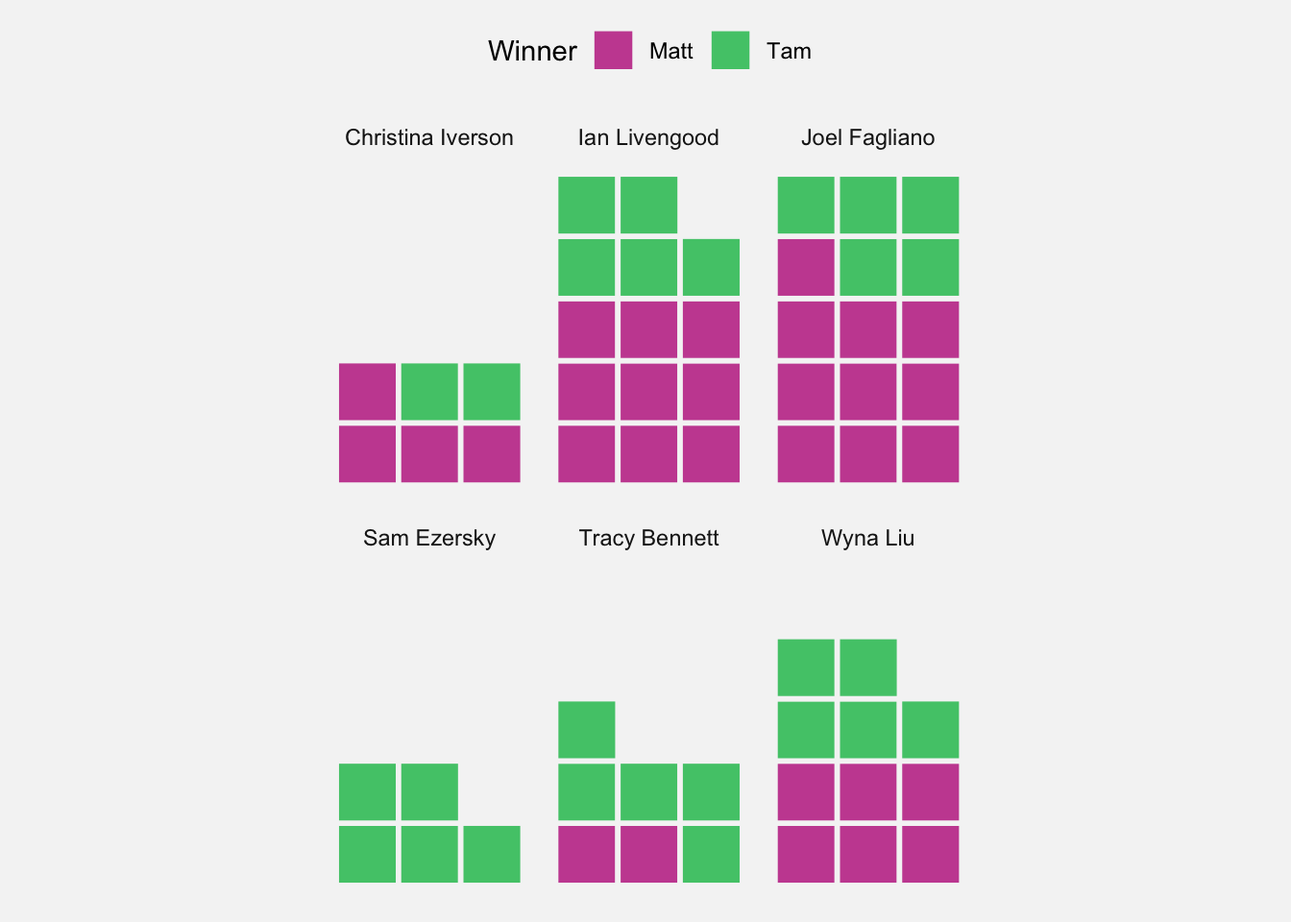
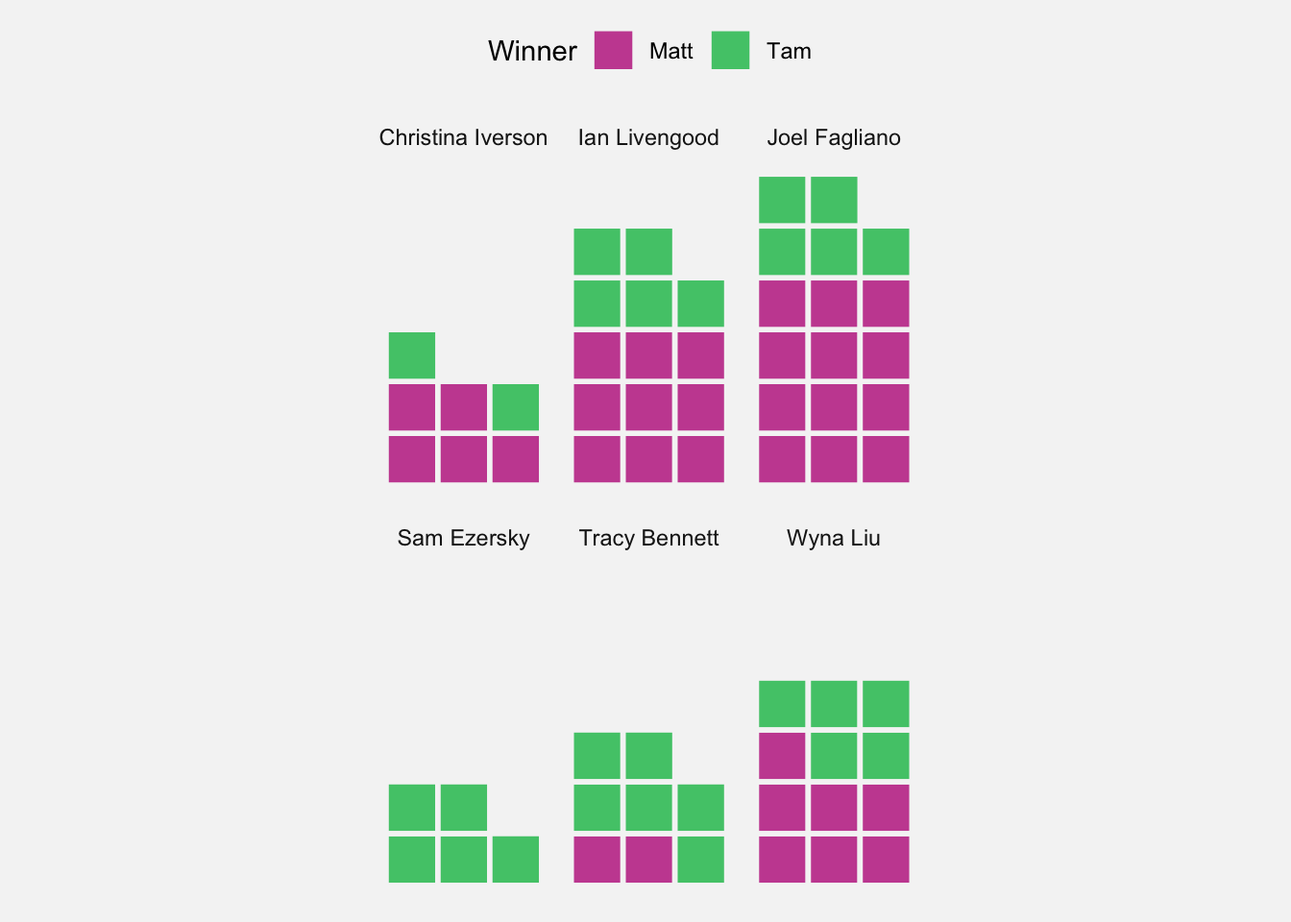
Fix bug for multiple games 1 second apart

diff --git a/mini.html b/mini.html
@@ -75,7 +75,7 @@ ul.task-list li input[type="checkbox"] {
 <p>S</p>
 </div>
 </div>
-<p>After 59 Minis, <strong><span class="matt">Matt</span></strong> is leading 31 to 27 (with 1 draw).</p>
+<p>After 64 Minis, <strong><span class="matt">Matt</span></strong> is leading 35 to 28 (with 1 draw).</p>
 <div class="cell">
 <div class="cell-output-display">
 <div>
@@ -106,12 +106,12 @@ ul.task-list li input[type="checkbox"] {
 </div>
 <p><span class="matt">Matt</span> holds the record for the fastest Mini, completing it in <strong>0:18</strong> on 4 February 2025.</p>
 <p><span class="matt">Matt</span> also played the slowest game: a sluggish <strong>5:46</strong> on 1 February 2025.</p>
-<p>Other than the draw, our closest game was won by <strong><span class="tam">Tam</span></strong> by a mere 1 second.</p>
+<p>Other than the draw, we’ve played 2 Minis that were a mere 1 second apart.</p>
 <p>This chart compares our completion times for each Mini. Click/hover on the points to see the details of each game.</p>
 <div class="cell">
 <div class="cell-output-display">
-<div class="plotly html-widget html-fill-item" id="htmlwidget-c01a14690b413e95d206" style="width:100%;height:464px;"></div>
-<script type="application/json" data-for="htmlwidget-c01a14690b413e95d206">{"x":{"data":[{"x":[20199,20199,null,20080,20080,null,20081,20081,null,20083,20083,null,20085,20085,null,20086,20086,null,20089,20089,null,20090,20090,null,20091,20091,null,20092,20092,null,20093,20093,null,20095,20095,null,20098,20098,null,20099,20099,null,20100,20100,null,20101,20101,null,20105,20105,null,20108,20108,null,20109,20109,null,20110,20110,null,20112,20112,null,20113,20113,null,20114,20114,null,20115,20115,null,20116,20116,null,20118,20118,null,20119,20119,null,20120,20120,null,20122,20122,null,20123,20123,null,20124,20124,null,20125,20125,null,20126,20126,null,20128,20128,null,20130,20130,null,20131,20131,null,20135,20135,null,20137,20137,null,20138,20138,null,20139,20139,null,20141,20141,null,20142,20142,null,20143,20143,null,20144,20144,null,20145,20145,null,20146,20146,null,20147,20147,null,20149,20149,null,20150,20150,null,20159,20159,null,20163,20163,null,20164,20164,null,20180,20180,null,20185,20185,null,20187,20187,null,20189,20189,null,20193,20193,null,20194,20194,null,20195,20195],"y":[70,41,null,142,72,null,48,39,null,80,234,null,229,137,null,65,162,null,154,34,null,56,32,null,99,72,null,117,93,null,49,49,null,92,155,null,86,57,null,104,124,null,61,141,null,51,146,null,51,45,null,106,86,null,71,46,null,50,52,null,59,182,null,242,144,null,82,71,null,129,60,null,120,135,null,121,162,null,31,74,null,346,257,null,49,81,null,18,27,null,194,77,null,46,114,null,45,64,null,40,62,null,57,50,null,45,74,null,92,82,null,163,70,null,57,66,null,160,46,null,124,340,null,44,81,null,45,80,null,45,82,null,115,182,null,97,118,null,54,57,null,61,163,null,66,65,null,63,155,null,62,68,null,75,129,null,66,69,null,87,72,null,103,53,null,110,91,null,45,104,null,229,164,null,109,86],"text":"","type":"scatter","mode":"lines","line":{"width":1.8897637795275593,"color":"rgba(0,0,0,1)","dash":"solid"},"hoveron":"points","showlegend":false,"xaxis":"x","yaxis":"y","hoverinfo":"text","frame":null},{"x":[20199,20080,20081,20083,20085,20086,20089,20090,20091,20092,20093,20095,20098,20099,20100,20101,20105,20108,20109,20110,20112,20113,20114,20115,20116,20118,20119,20120,20122,20123,20124,20125,20126,20128,20130,20131,20135,20137,20138,20139,20141,20142,20143,20144,20145,20146,20147,20149,20150,20159,20163,20164,20180,20185,20187,20189,20193,20194,20195],"y":[70,142,48,80,229,65,154,56,99,117,49,92,86,104,61,51,51,106,71,50,59,242,82,129,120,121,31,346,49,18,194,46,45,40,57,45,92,163,57,160,124,44,45,45,115,97,54,61,66,63,62,75,66,87,103,110,45,229,109],"text":["Matt completed the Mini in 1:10 on 21 April 2025","Matt completed the Mini in 2:22 on 23 December 2024","Matt completed the Mini in 0:48 on 24 December 2024","Matt completed the Mini in 1:20 on 26 December 2024","Matt completed the Mini in 3:49 on 28 December 2024","Matt completed the Mini in 1:05 on 29 December 2024","Matt completed the Mini in 2:34 on 1 January 2025","Matt completed the Mini in 0:56 on 2 January 2025","Matt completed the Mini in 1:39 on 3 January 2025","Matt completed the Mini in 1:57 on 4 January 2025","Matt completed the Mini in 0:49 on 5 January 2025","Matt completed the Mini in 1:32 on 7 January 2025","Matt completed the Mini in 1:26 on 10 January 2025","Matt completed the Mini in 1:44 on 11 January 2025","Matt completed the Mini in 1:01 on 12 January 2025","Matt completed the Mini in 0:51 on 13 January 2025","Matt completed the Mini in 0:51 on 17 January 2025","Matt completed the Mini in 1:46 on 20 January 2025","Matt completed the Mini in 1:11 on 21 January 2025","Matt completed the Mini in 0:50 on 22 January 2025","Matt completed the Mini in 0:59 on 24 January 2025","Matt completed the Mini in 4:02 on 25 January 2025","Matt completed the Mini in 1:22 on 26 January 2025","Matt completed the Mini in 2:09 on 27 January 2025","Matt completed the Mini in 2:00 on 28 January 2025","Matt completed the Mini in 2:01 on 30 January 2025","Matt completed the Mini in 0:31 on 31 January 2025","Matt completed the Mini in 5:46 on 1 February 2025","Matt completed the Mini in 0:49 on 3 February 2025","Matt completed the Mini in 0:18 on 4 February 2025","Matt completed the Mini in 3:14 on 5 February 2025","Matt completed the Mini in 0:46 on 6 February 2025","Matt completed the Mini in 0:45 on 7 February 2025","Matt completed the Mini in 0:40 on 9 February 2025","Matt completed the Mini in 0:57 on 11 February 2025","Matt completed the Mini in 0:45 on 12 February 2025","Matt completed the Mini in 1:32 on 16 February 2025","Matt completed the Mini in 2:43 on 18 February 2025","Matt completed the Mini in 0:57 on 19 February 2025","Matt completed the Mini in 2:40 on 20 February 2025","Matt completed the Mini in 2:04 on 22 February 2025","Matt completed the Mini in 0:44 on 23 February 2025","Matt completed the Mini in 0:45 on 24 February 2025","Matt completed the Mini in 0:45 on 25 February 2025","Matt completed the Mini in 1:55 on 26 February 2025","Matt completed the Mini in 1:37 on 27 February 2025","Matt completed the Mini in 0:54 on 28 February 2025","Matt completed the Mini in 1:01 on 2 March 2025","Matt completed the Mini in 1:06 on 3 March 2025","Matt completed the Mini in 1:03 on 12 March 2025","Matt completed the Mini in 1:02 on 16 March 2025","Matt completed the Mini in 1:15 on 17 March 2025","Matt completed the Mini in 1:06 on 2 April 2025","Matt completed the Mini in 1:27 on 7 April 2025","Matt completed the Mini in 1:43 on 9 April 2025","Matt completed the Mini in 1:50 on 11 April 2025","Matt completed the Mini in 0:45 on 15 April 2025","Matt completed the Mini in 3:49 on 16 April 2025","Matt completed the Mini in 1:49 on 17 April 2025"],"type":"scatter","mode":"markers","marker":{"autocolorscale":false,"color":"rgba(200,80,160,1)","opacity":1,"size":7.559055118110237,"symbol":"circle","line":{"width":1.8897637795275593,"color":"rgba(200,80,160,1)"}},"hoveron":"points","showlegend":false,"xaxis":"x","yaxis":"y","hoverinfo":"text","frame":null},{"x":[20199,20080,20081,20083,20085,20086,20089,20090,20091,20092,20093,20095,20098,20099,20100,20101,20105,20108,20109,20110,20112,20113,20114,20115,20116,20118,20119,20120,20122,20123,20124,20125,20126,20128,20130,20131,20135,20137,20138,20139,20141,20142,20143,20144,20145,20146,20147,20149,20150,20159,20163,20164,20180,20185,20187,20189,20193,20194,20195],"y":[41,72,39,234,137,162,34,32,72,93,49,155,57,124,141,146,45,86,46,52,182,144,71,60,135,162,74,257,81,27,77,114,64,62,50,74,82,70,66,46,340,81,80,82,182,118,57,163,65,155,68,129,69,72,53,91,104,164,86],"text":["Tam completed the Mini in 0:41 on 21 April 2025","Tam completed the Mini in 1:12 on 23 December 2024","Tam completed the Mini in 0:39 on 24 December 2024","Tam completed the Mini in 3:54 on 26 December 2024","Tam completed the Mini in 2:17 on 28 December 2024","Tam completed the Mini in 2:42 on 29 December 2024","Tam completed the Mini in 0:34 on 1 January 2025","Tam completed the Mini in 0:32 on 2 January 2025","Tam completed the Mini in 1:12 on 3 January 2025","Tam completed the Mini in 1:33 on 4 January 2025","Tam completed the Mini in 0:49 on 5 January 2025","Tam completed the Mini in 2:35 on 7 January 2025","Tam completed the Mini in 0:57 on 10 January 2025","Tam completed the Mini in 2:04 on 11 January 2025","Tam completed the Mini in 2:21 on 12 January 2025","Tam completed the Mini in 2:26 on 13 January 2025","Tam completed the Mini in 0:45 on 17 January 2025","Tam completed the Mini in 1:26 on 20 January 2025","Tam completed the Mini in 0:46 on 21 January 2025","Tam completed the Mini in 0:52 on 22 January 2025","Tam completed the Mini in 3:02 on 24 January 2025","Tam completed the Mini in 2:24 on 25 January 2025","Tam completed the Mini in 1:11 on 26 January 2025","Tam completed the Mini in 1:00 on 27 January 2025","Tam completed the Mini in 2:15 on 28 January 2025","Tam completed the Mini in 2:42 on 30 January 2025","Tam completed the Mini in 1:14 on 31 January 2025","Tam completed the Mini in 4:17 on 1 February 2025","Tam completed the Mini in 1:21 on 3 February 2025","Tam completed the Mini in 0:27 on 4 February 2025","Tam completed the Mini in 1:17 on 5 February 2025","Tam completed the Mini in 1:54 on 6 February 2025","Tam completed the Mini in 1:04 on 7 February 2025","Tam completed the Mini in 1:02 on 9 February 2025","Tam completed the Mini in 0:50 on 11 February 2025","Tam completed the Mini in 1:14 on 12 February 2025","Tam completed the Mini in 1:22 on 16 February 2025","Tam completed the Mini in 1:10 on 18 February 2025","Tam completed the Mini in 1:06 on 19 February 2025","Tam completed the Mini in 0:46 on 20 February 2025","Tam completed the Mini in 5:40 on 22 February 2025","Tam completed the Mini in 1:21 on 23 February 2025","Tam completed the Mini in 1:20 on 24 February 2025","Tam completed the Mini in 1:22 on 25 February 2025","Tam completed the Mini in 3:02 on 26 February 2025","Tam completed the Mini in 1:58 on 27 February 2025","Tam completed the Mini in 0:57 on 28 February 2025","Tam completed the Mini in 2:43 on 2 March 2025","Tam completed the Mini in 1:05 on 3 March 2025","Tam completed the Mini in 2:35 on 12 March 2025","Tam completed the Mini in 1:08 on 16 March 2025","Tam completed the Mini in 2:09 on 17 March 2025","Tam completed the Mini in 1:09 on 2 April 2025","Tam completed the Mini in 1:12 on 7 April 2025","Tam completed the Mini in 0:53 on 9 April 2025","Tam completed the Mini in 1:31 on 11 April 2025","Tam completed the Mini in 1:44 on 15 April 2025","Tam completed the Mini in 2:44 on 16 April 2025","Tam completed the Mini in 1:26 on 17 April 2025"],"type":"scatter","mode":"markers","marker":{"autocolorscale":false,"color":"rgba(80,200,120,1)","opacity":1,"size":7.559055118110237,"symbol":"circle","line":{"width":1.8897637795275593,"color":"rgba(80,200,120,1)"}},"hoveron":"points","showlegend":false,"xaxis":"x","yaxis":"y","hoverinfo":"text","frame":null}],"layout":{"margin":{"t":26.228310502283108,"r":7.3059360730593621,"b":25.57077625570777,"l":43.105022831050235},"plot_bgcolor":"rgba(245,245,245,1)","paper_bgcolor":"rgba(245,245,245,1)","font":{"color":"rgba(0,0,0,1)","family":"","size":14.611872146118724},"xaxis":{"domain":[0,1],"automargin":true,"type":"linear","autorange":false,"range":[20074.049999999999,20204.950000000001],"tickmode":"array","ticktext":["Jan","Feb","Mar","Apr"],"tickvals":[20089,20120,20148,20179],"categoryorder":"array","categoryarray":["Jan","Feb","Mar","Apr"],"nticks":null,"ticks":"","tickcolor":null,"ticklen":3.6529680365296811,"tickwidth":0,"showticklabels":true,"tickfont":{"color":"rgba(77,77,77,1)","family":"","size":11.68949771689498},"tickangle":-0,"showline":false,"linecolor":null,"linewidth":0,"showgrid":true,"gridcolor":"rgba(235,235,235,1)","gridwidth":0.66417600664176002,"zeroline":false,"anchor":"y","title":{"text":"","font":{"color":"rgba(0,0,0,1)","family":"","size":14.611872146118724}},"hoverformat":".2f"},"yaxis":{"domain":[0,1],"automargin":true,"type":"linear","autorange":false,"range":[1.5999999999999979,362.39999999999998],"tickmode":"array","ticktext":["100","200","300"],"tickvals":[100,199.99999999999997,300],"categoryorder":"array","categoryarray":["100","200","300"],"nticks":null,"ticks":"","tickcolor":null,"ticklen":3.6529680365296811,"tickwidth":0,"showticklabels":true,"tickfont":{"color":"rgba(77,77,77,1)","family":"","size":11.68949771689498},"tickangle":-0,"showline":false,"linecolor":null,"linewidth":0,"showgrid":true,"gridcolor":"rgba(235,235,235,1)","gridwidth":0.66417600664176002,"zeroline":false,"anchor":"x","title":{"text":"Time to finish Mini (seconds)","font":{"color":"rgba(0,0,0,1)","family":"","size":14.611872146118724}},"hoverformat":".2f"},"shapes":[{"type":"rect","fillcolor":null,"line":{"color":null,"width":0,"linetype":[]},"yref":"paper","xref":"paper","x0":0,"x1":1,"y0":0,"y1":1}],"showlegend":false,"legend":{"bgcolor":null,"bordercolor":null,"borderwidth":0,"font":{"color":"rgba(0,0,0,1)","family":"","size":11.68949771689498}},"hovermode":"x","barmode":"relative"},"config":{"doubleClick":"reset","modeBarButtonsToAdd":["hoverclosest","hovercompare"],"showSendToCloud":false,"displayModeBar":true,"displaylogo":false,"modeBarButtonsToRemove":["pan","select","autoScale","lasso2d","hoverClosestCartesian","hoverCompareCartesian"]},"source":"A","attrs":{"4db626ab4528":{"x":{},"y":{},"xend":{},"yend":{},"type":"scatter"},"4db6364958ed":{"x":{},"y":{},"xend":{},"yend":{},"text":{}},"4db696d4b73":{"x":{},"y":{},"xend":{},"yend":{},"text":{}}},"cur_data":"4db626ab4528","visdat":{"4db626ab4528":["function (y) ","x"],"4db6364958ed":["function (y) ","x"],"4db696d4b73":["function (y) ","x"]},"highlight":{"on":"plotly_click","persistent":false,"dynamic":false,"selectize":false,"opacityDim":0.20000000000000001,"selected":{"opacity":1},"debounce":0},"shinyEvents":["plotly_hover","plotly_click","plotly_selected","plotly_relayout","plotly_brushed","plotly_brushing","plotly_clickannotation","plotly_doubleclick","plotly_deselect","plotly_afterplot","plotly_sunburstclick"],"base_url":"https://plot.ly"},"evals":[],"jsHooks":[]}</script>
+<div class="plotly html-widget html-fill-item" id="htmlwidget-9e8647fc40e1eb6f14e6" style="width:100%;height:464px;"></div>
+<script type="application/json" data-for="htmlwidget-9e8647fc40e1eb6f14e6">{"x":{"data":[{"x":[20199,20199,null,20200,20200,null,20201,20201,null,20202,20202,null,20203,20203,null,20206,20206,null,20080,20080,null,20081,20081,null,20083,20083,null,20085,20085,null,20086,20086,null,20089,20089,null,20090,20090,null,20091,20091,null,20092,20092,null,20093,20093,null,20095,20095,null,20098,20098,null,20099,20099,null,20100,20100,null,20101,20101,null,20105,20105,null,20108,20108,null,20109,20109,null,20110,20110,null,20112,20112,null,20113,20113,null,20114,20114,null,20115,20115,null,20116,20116,null,20118,20118,null,20119,20119,null,20120,20120,null,20122,20122,null,20123,20123,null,20124,20124,null,20125,20125,null,20126,20126,null,20128,20128,null,20130,20130,null,20131,20131,null,20135,20135,null,20137,20137,null,20138,20138,null,20139,20139,null,20141,20141,null,20142,20142,null,20143,20143,null,20144,20144,null,20145,20145,null,20146,20146,null,20147,20147,null,20149,20149,null,20150,20150,null,20159,20159,null,20163,20163,null,20164,20164,null,20180,20180,null,20185,20185,null,20187,20187,null,20189,20189,null,20193,20193,null,20194,20194,null,20195,20195],"y":[70,41,null,103,53,null,30,40,null,76,91,null,75,97,null,73,74,null,142,72,null,48,39,null,80,234,null,229,137,null,65,162,null,154,34,null,56,32,null,99,72,null,117,93,null,49,49,null,92,155,null,86,57,null,104,124,null,61,141,null,51,146,null,51,45,null,106,86,null,71,46,null,50,52,null,59,182,null,242,144,null,82,71,null,129,60,null,120,135,null,121,162,null,31,74,null,346,257,null,49,81,null,18,27,null,194,77,null,46,114,null,45,64,null,40,62,null,57,50,null,45,74,null,92,82,null,163,70,null,57,66,null,160,46,null,124,340,null,44,81,null,45,80,null,45,82,null,115,182,null,97,118,null,54,57,null,61,163,null,66,65,null,63,155,null,62,68,null,75,129,null,66,69,null,87,72,null,103,53,null,110,91,null,45,104,null,229,164,null,109,86],"text":"","type":"scatter","mode":"lines","line":{"width":1.8897637795275593,"color":"rgba(0,0,0,1)","dash":"solid"},"hoveron":"points","showlegend":false,"xaxis":"x","yaxis":"y","hoverinfo":"text","frame":null},{"x":[20199,20200,20201,20202,20203,20206,20080,20081,20083,20085,20086,20089,20090,20091,20092,20093,20095,20098,20099,20100,20101,20105,20108,20109,20110,20112,20113,20114,20115,20116,20118,20119,20120,20122,20123,20124,20125,20126,20128,20130,20131,20135,20137,20138,20139,20141,20142,20143,20144,20145,20146,20147,20149,20150,20159,20163,20164,20180,20185,20187,20189,20193,20194,20195],"y":[70,103,30,76,75,73,142,48,80,229,65,154,56,99,117,49,92,86,104,61,51,51,106,71,50,59,242,82,129,120,121,31,346,49,18,194,46,45,40,57,45,92,163,57,160,124,44,45,45,115,97,54,61,66,63,62,75,66,87,103,110,45,229,109],"text":["Matt completed the Mini in 1:10 on 21 April 2025","Matt completed the Mini in 1:43 on 22 April 2025","Matt completed the Mini in 0:30 on 23 April 2025","Matt completed the Mini in 1:16 on 24 April 2025","Matt completed the Mini in 1:15 on 25 April 2025","Matt completed the Mini in 1:13 on 28 April 2025","Matt completed the Mini in 2:22 on 23 December 2024","Matt completed the Mini in 0:48 on 24 December 2024","Matt completed the Mini in 1:20 on 26 December 2024","Matt completed the Mini in 3:49 on 28 December 2024","Matt completed the Mini in 1:05 on 29 December 2024","Matt completed the Mini in 2:34 on 1 January 2025","Matt completed the Mini in 0:56 on 2 January 2025","Matt completed the Mini in 1:39 on 3 January 2025","Matt completed the Mini in 1:57 on 4 January 2025","Matt completed the Mini in 0:49 on 5 January 2025","Matt completed the Mini in 1:32 on 7 January 2025","Matt completed the Mini in 1:26 on 10 January 2025","Matt completed the Mini in 1:44 on 11 January 2025","Matt completed the Mini in 1:01 on 12 January 2025","Matt completed the Mini in 0:51 on 13 January 2025","Matt completed the Mini in 0:51 on 17 January 2025","Matt completed the Mini in 1:46 on 20 January 2025","Matt completed the Mini in 1:11 on 21 January 2025","Matt completed the Mini in 0:50 on 22 January 2025","Matt completed the Mini in 0:59 on 24 January 2025","Matt completed the Mini in 4:02 on 25 January 2025","Matt completed the Mini in 1:22 on 26 January 2025","Matt completed the Mini in 2:09 on 27 January 2025","Matt completed the Mini in 2:00 on 28 January 2025","Matt completed the Mini in 2:01 on 30 January 2025","Matt completed the Mini in 0:31 on 31 January 2025","Matt completed the Mini in 5:46 on 1 February 2025","Matt completed the Mini in 0:49 on 3 February 2025","Matt completed the Mini in 0:18 on 4 February 2025","Matt completed the Mini in 3:14 on 5 February 2025","Matt completed the Mini in 0:46 on 6 February 2025","Matt completed the Mini in 0:45 on 7 February 2025","Matt completed the Mini in 0:40 on 9 February 2025","Matt completed the Mini in 0:57 on 11 February 2025","Matt completed the Mini in 0:45 on 12 February 2025","Matt completed the Mini in 1:32 on 16 February 2025","Matt completed the Mini in 2:43 on 18 February 2025","Matt completed the Mini in 0:57 on 19 February 2025","Matt completed the Mini in 2:40 on 20 February 2025","Matt completed the Mini in 2:04 on 22 February 2025","Matt completed the Mini in 0:44 on 23 February 2025","Matt completed the Mini in 0:45 on 24 February 2025","Matt completed the Mini in 0:45 on 25 February 2025","Matt completed the Mini in 1:55 on 26 February 2025","Matt completed the Mini in 1:37 on 27 February 2025","Matt completed the Mini in 0:54 on 28 February 2025","Matt completed the Mini in 1:01 on 2 March 2025","Matt completed the Mini in 1:06 on 3 March 2025","Matt completed the Mini in 1:03 on 12 March 2025","Matt completed the Mini in 1:02 on 16 March 2025","Matt completed the Mini in 1:15 on 17 March 2025","Matt completed the Mini in 1:06 on 2 April 2025","Matt completed the Mini in 1:27 on 7 April 2025","Matt completed the Mini in 1:43 on 9 April 2025","Matt completed the Mini in 1:50 on 11 April 2025","Matt completed the Mini in 0:45 on 15 April 2025","Matt completed the Mini in 3:49 on 16 April 2025","Matt completed the Mini in 1:49 on 17 April 2025"],"type":"scatter","mode":"markers","marker":{"autocolorscale":false,"color":"rgba(200,80,160,1)","opacity":1,"size":7.559055118110237,"symbol":"circle","line":{"width":1.8897637795275593,"color":"rgba(200,80,160,1)"}},"hoveron":"points","showlegend":false,"xaxis":"x","yaxis":"y","hoverinfo":"text","frame":null},{"x":[20199,20200,20201,20202,20203,20206,20080,20081,20083,20085,20086,20089,20090,20091,20092,20093,20095,20098,20099,20100,20101,20105,20108,20109,20110,20112,20113,20114,20115,20116,20118,20119,20120,20122,20123,20124,20125,20126,20128,20130,20131,20135,20137,20138,20139,20141,20142,20143,20144,20145,20146,20147,20149,20150,20159,20163,20164,20180,20185,20187,20189,20193,20194,20195],"y":[41,53,40,91,97,74,72,39,234,137,162,34,32,72,93,49,155,57,124,141,146,45,86,46,52,182,144,71,60,135,162,74,257,81,27,77,114,64,62,50,74,82,70,66,46,340,81,80,82,182,118,57,163,65,155,68,129,69,72,53,91,104,164,86],"text":["Tam completed the Mini in 0:41 on 21 April 2025","Tam completed the Mini in 0:53 on 22 April 2025","Tam completed the Mini in 0:40 on 23 April 2025","Tam completed the Mini in 1:31 on 24 April 2025","Tam completed the Mini in 1:37 on 25 April 2025","Tam completed the Mini in 1:14 on 28 April 2025","Tam completed the Mini in 1:12 on 23 December 2024","Tam completed the Mini in 0:39 on 24 December 2024","Tam completed the Mini in 3:54 on 26 December 2024","Tam completed the Mini in 2:17 on 28 December 2024","Tam completed the Mini in 2:42 on 29 December 2024","Tam completed the Mini in 0:34 on 1 January 2025","Tam completed the Mini in 0:32 on 2 January 2025","Tam completed the Mini in 1:12 on 3 January 2025","Tam completed the Mini in 1:33 on 4 January 2025","Tam completed the Mini in 0:49 on 5 January 2025","Tam completed the Mini in 2:35 on 7 January 2025","Tam completed the Mini in 0:57 on 10 January 2025","Tam completed the Mini in 2:04 on 11 January 2025","Tam completed the Mini in 2:21 on 12 January 2025","Tam completed the Mini in 2:26 on 13 January 2025","Tam completed the Mini in 0:45 on 17 January 2025","Tam completed the Mini in 1:26 on 20 January 2025","Tam completed the Mini in 0:46 on 21 January 2025","Tam completed the Mini in 0:52 on 22 January 2025","Tam completed the Mini in 3:02 on 24 January 2025","Tam completed the Mini in 2:24 on 25 January 2025","Tam completed the Mini in 1:11 on 26 January 2025","Tam completed the Mini in 1:00 on 27 January 2025","Tam completed the Mini in 2:15 on 28 January 2025","Tam completed the Mini in 2:42 on 30 January 2025","Tam completed the Mini in 1:14 on 31 January 2025","Tam completed the Mini in 4:17 on 1 February 2025","Tam completed the Mini in 1:21 on 3 February 2025","Tam completed the Mini in 0:27 on 4 February 2025","Tam completed the Mini in 1:17 on 5 February 2025","Tam completed the Mini in 1:54 on 6 February 2025","Tam completed the Mini in 1:04 on 7 February 2025","Tam completed the Mini in 1:02 on 9 February 2025","Tam completed the Mini in 0:50 on 11 February 2025","Tam completed the Mini in 1:14 on 12 February 2025","Tam completed the Mini in 1:22 on 16 February 2025","Tam completed the Mini in 1:10 on 18 February 2025","Tam completed the Mini in 1:06 on 19 February 2025","Tam completed the Mini in 0:46 on 20 February 2025","Tam completed the Mini in 5:40 on 22 February 2025","Tam completed the Mini in 1:21 on 23 February 2025","Tam completed the Mini in 1:20 on 24 February 2025","Tam completed the Mini in 1:22 on 25 February 2025","Tam completed the Mini in 3:02 on 26 February 2025","Tam completed the Mini in 1:58 on 27 February 2025","Tam completed the Mini in 0:57 on 28 February 2025","Tam completed the Mini in 2:43 on 2 March 2025","Tam completed the Mini in 1:05 on 3 March 2025","Tam completed the Mini in 2:35 on 12 March 2025","Tam completed the Mini in 1:08 on 16 March 2025","Tam completed the Mini in 2:09 on 17 March 2025","Tam completed the Mini in 1:09 on 2 April 2025","Tam completed the Mini in 1:12 on 7 April 2025","Tam completed the Mini in 0:53 on 9 April 2025","Tam completed the Mini in 1:31 on 11 April 2025","Tam completed the Mini in 1:44 on 15 April 2025","Tam completed the Mini in 2:44 on 16 April 2025","Tam completed the Mini in 1:26 on 17 April 2025"],"type":"scatter","mode":"markers","marker":{"autocolorscale":false,"color":"rgba(80,200,120,1)","opacity":1,"size":7.559055118110237,"symbol":"circle","line":{"width":1.8897637795275593,"color":"rgba(80,200,120,1)"}},"hoveron":"points","showlegend":false,"xaxis":"x","yaxis":"y","hoverinfo":"text","frame":null}],"layout":{"margin":{"t":26.228310502283108,"r":7.3059360730593621,"b":25.57077625570777,"l":43.105022831050235},"plot_bgcolor":"rgba(245,245,245,1)","paper_bgcolor":"rgba(245,245,245,1)","font":{"color":"rgba(0,0,0,1)","family":"","size":14.611872146118724},"xaxis":{"domain":[0,1],"automargin":true,"type":"linear","autorange":false,"range":[20073.700000000001,20212.299999999999],"tickmode":"array","ticktext":["Jan","Feb","Mar","Apr","May"],"tickvals":[20089,20120,20148,20179,20209],"categoryorder":"array","categoryarray":["Jan","Feb","Mar","Apr","May"],"nticks":null,"ticks":"","tickcolor":null,"ticklen":3.6529680365296811,"tickwidth":0,"showticklabels":true,"tickfont":{"color":"rgba(77,77,77,1)","family":"","size":11.68949771689498},"tickangle":-0,"showline":false,"linecolor":null,"linewidth":0,"showgrid":true,"gridcolor":"rgba(235,235,235,1)","gridwidth":0.66417600664176002,"zeroline":false,"anchor":"y","title":{"text":"","font":{"color":"rgba(0,0,0,1)","family":"","size":14.611872146118724}},"hoverformat":".2f"},"yaxis":{"domain":[0,1],"automargin":true,"type":"linear","autorange":false,"range":[1.5999999999999979,362.39999999999998],"tickmode":"array","ticktext":["100","200","300"],"tickvals":[100,199.99999999999997,300],"categoryorder":"array","categoryarray":["100","200","300"],"nticks":null,"ticks":"","tickcolor":null,"ticklen":3.6529680365296811,"tickwidth":0,"showticklabels":true,"tickfont":{"color":"rgba(77,77,77,1)","family":"","size":11.68949771689498},"tickangle":-0,"showline":false,"linecolor":null,"linewidth":0,"showgrid":true,"gridcolor":"rgba(235,235,235,1)","gridwidth":0.66417600664176002,"zeroline":false,"anchor":"x","title":{"text":"Time to finish Mini (seconds)","font":{"color":"rgba(0,0,0,1)","family":"","size":14.611872146118724}},"hoverformat":".2f"},"shapes":[{"type":"rect","fillcolor":null,"line":{"color":null,"width":0,"linetype":[]},"yref":"paper","xref":"paper","x0":0,"x1":1,"y0":0,"y1":1}],"showlegend":false,"legend":{"bgcolor":null,"bordercolor":null,"borderwidth":0,"font":{"color":"rgba(0,0,0,1)","family":"","size":11.68949771689498}},"hovermode":"x","barmode":"relative"},"config":{"doubleClick":"reset","modeBarButtonsToAdd":["hoverclosest","hovercompare"],"showSendToCloud":false,"displayModeBar":true,"displaylogo":false,"modeBarButtonsToRemove":["pan","select","autoScale","lasso2d","hoverClosestCartesian","hoverCompareCartesian"]},"source":"A","attrs":{"b4115b2a7c5f":{"x":{},"y":{},"xend":{},"yend":{},"type":"scatter"},"b411424b6fbb":{"x":{},"y":{},"xend":{},"yend":{},"text":{}},"b41166947ffd":{"x":{},"y":{},"xend":{},"yend":{},"text":{}}},"cur_data":"b4115b2a7c5f","visdat":{"b4115b2a7c5f":["function (y) ","x"],"b411424b6fbb":["function (y) ","x"],"b41166947ffd":["function (y) ","x"]},"highlight":{"on":"plotly_click","persistent":false,"dynamic":false,"selectize":false,"opacityDim":0.20000000000000001,"selected":{"opacity":1},"debounce":0},"shinyEvents":["plotly_hover","plotly_click","plotly_selected","plotly_relayout","plotly_brushed","plotly_brushing","plotly_clickannotation","plotly_doubleclick","plotly_deselect","plotly_afterplot","plotly_sunburstclick"],"base_url":"https://plot.ly"},"evals":[],"jsHooks":[]}</script>
 </div>
 </div>
 <div class="crossword-container">
@@ -168,7 +168,7 @@ ul.task-list li input[type="checkbox"] {
 </div>
 </div>
 <p><span class="tam">Tam</span> does best when <strong>Sam Ezersky</strong> sets the Mini, winning 5 of 5 games.</p>
-<p><span class="matt">Matt’s</span> favourite Mini setter is <strong>Joel Fagliano</strong>, with 10 wins out of 15 games.</p>
+<p><span class="matt">Matt’s</span> favourite Mini setter is <strong>Christina Iverson</strong>, with 5 wins out of 7 games.</p>
 <p>Each square in this chart represents one Mini, coloured by the winner, for each crossword setter:</p>
 <div class="cell">
 <div class="cell-output-display">
@@ -180,8 +180,8 @@ ul.task-list li input[type="checkbox"] {
 </div>
 </div>
 <p><span class="matt">Matt</span> tends to be fastest when <strong>Joel Fagliano</strong> sets the Mini, with an average completion time of <strong>1:14</strong>. But he’s slowest when <strong>Ian Livengood</strong> is the setter, completing these Minis in <strong>1:50</strong> on average.</p>
-<p><span class="tam">Tam</span> is speediest when <strong>Sam Ezersky</strong> sets the Mini, gunning it in <strong>1:09</strong>, on average. She’s slowest when they’re set by <strong>Christina Iverson</strong>, with an average completion time of <strong>2:35</strong>.</p>
-<p><em>Last updated on 21 April 2025.</em></p>
+<p><span class="tam">Tam</span> is speediest when <strong>Sam Ezersky</strong> sets the Mini, gunning it in <strong>1:09</strong>, on average. She’s slowest when they’re set by <strong>Christina Iverson</strong>, with an average completion time of <strong>2:18</strong>.</p>
+<p><em>Last updated on 28 April 2025.</em></p>
 </section>
 
 </main>
